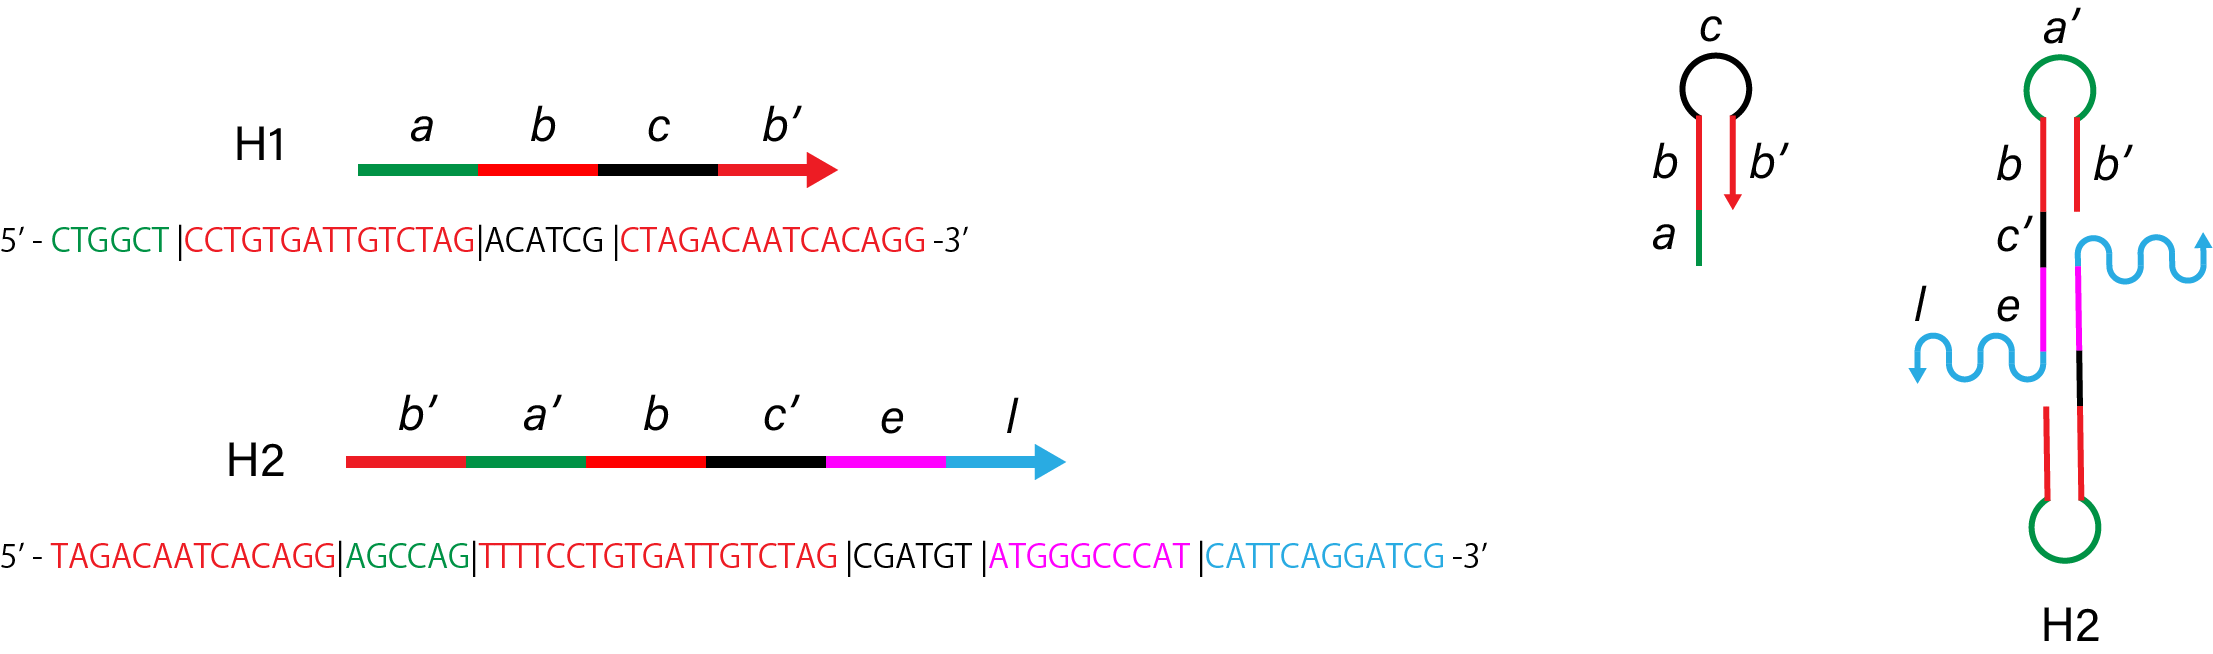
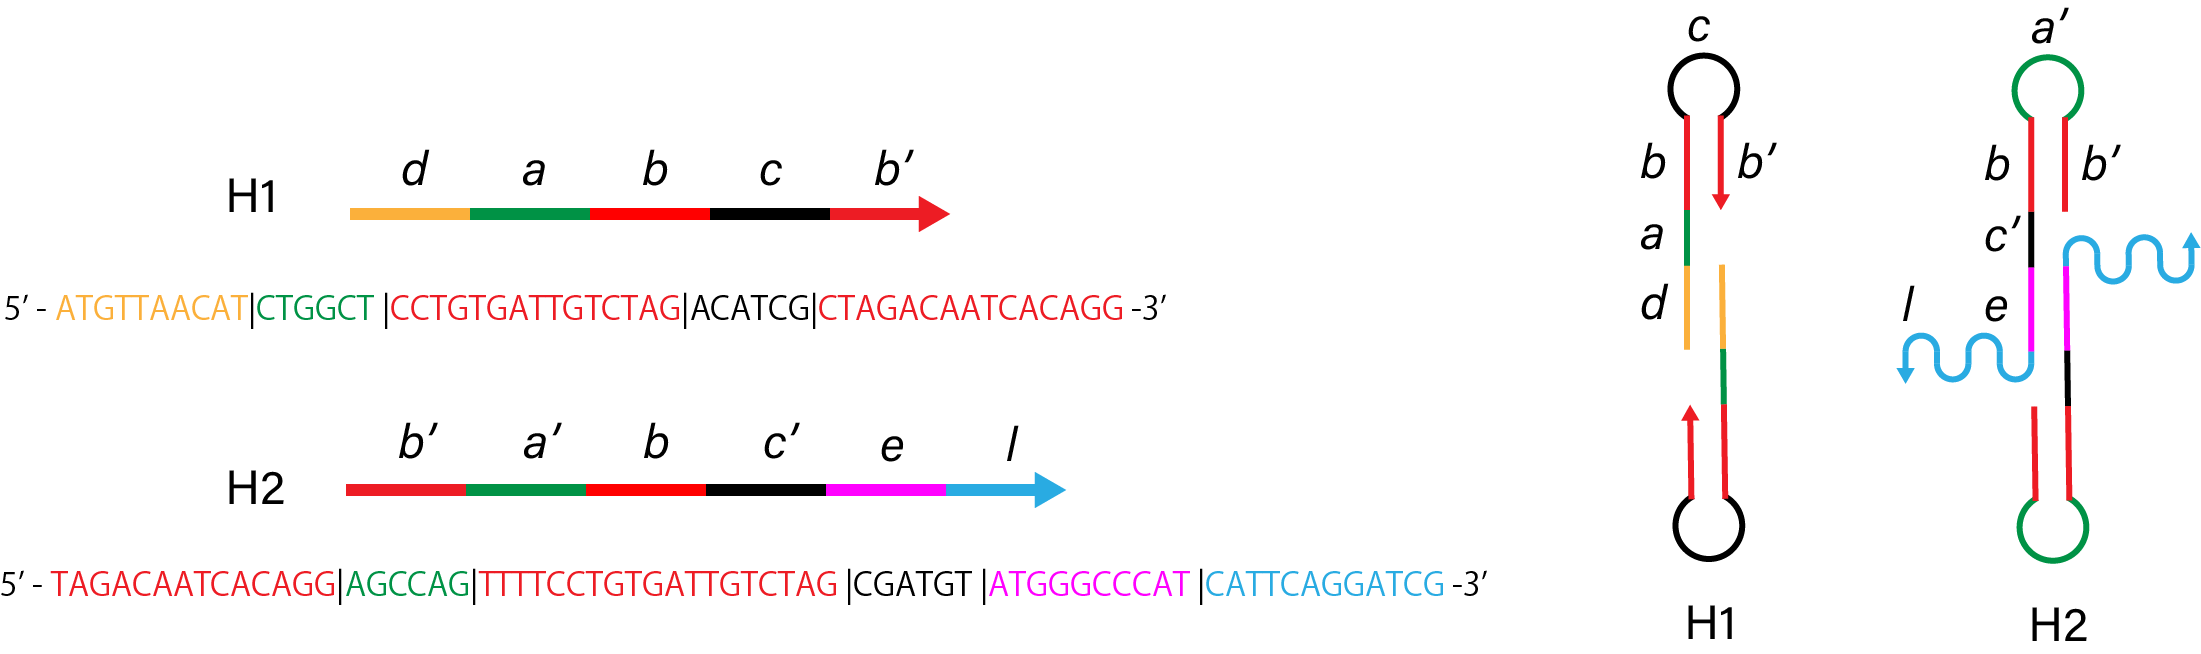
correct image image names

diff --git a/Discussion.html b/Discussion.html
@@ -176,7 +176,7 @@
             TTTTC CTGTGATTGTCTAG CGATGT http://www.nupack.org/partition/show/1562244?time_refresh=1.0&token=ZTCJpwWOlE
 
             <div class="row">
-                <img src="images/simulation_linker_h2.png">
+                <img src="images/simulation_dimer_h2.png">
             </div>
 
 
